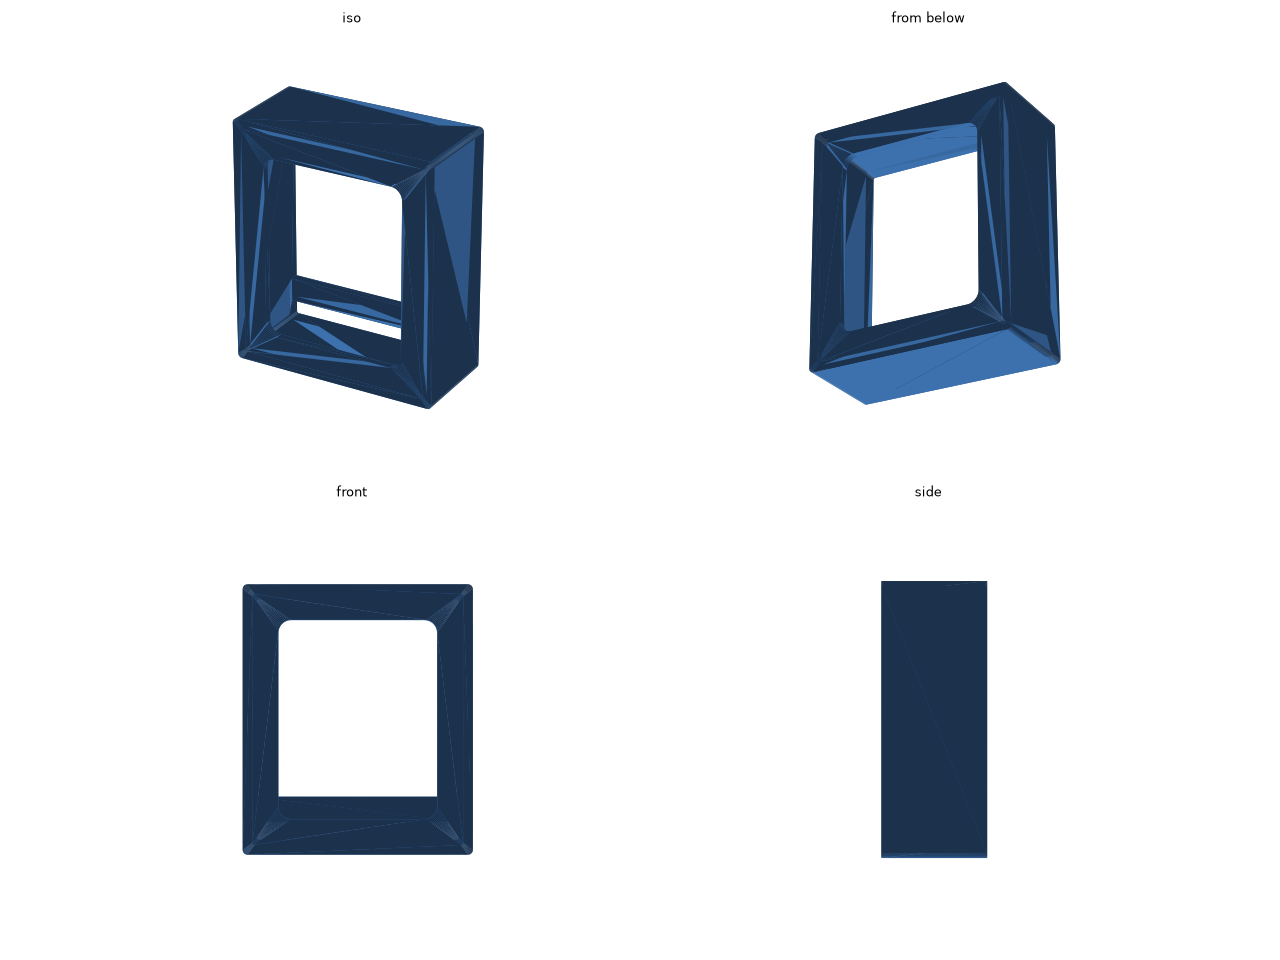
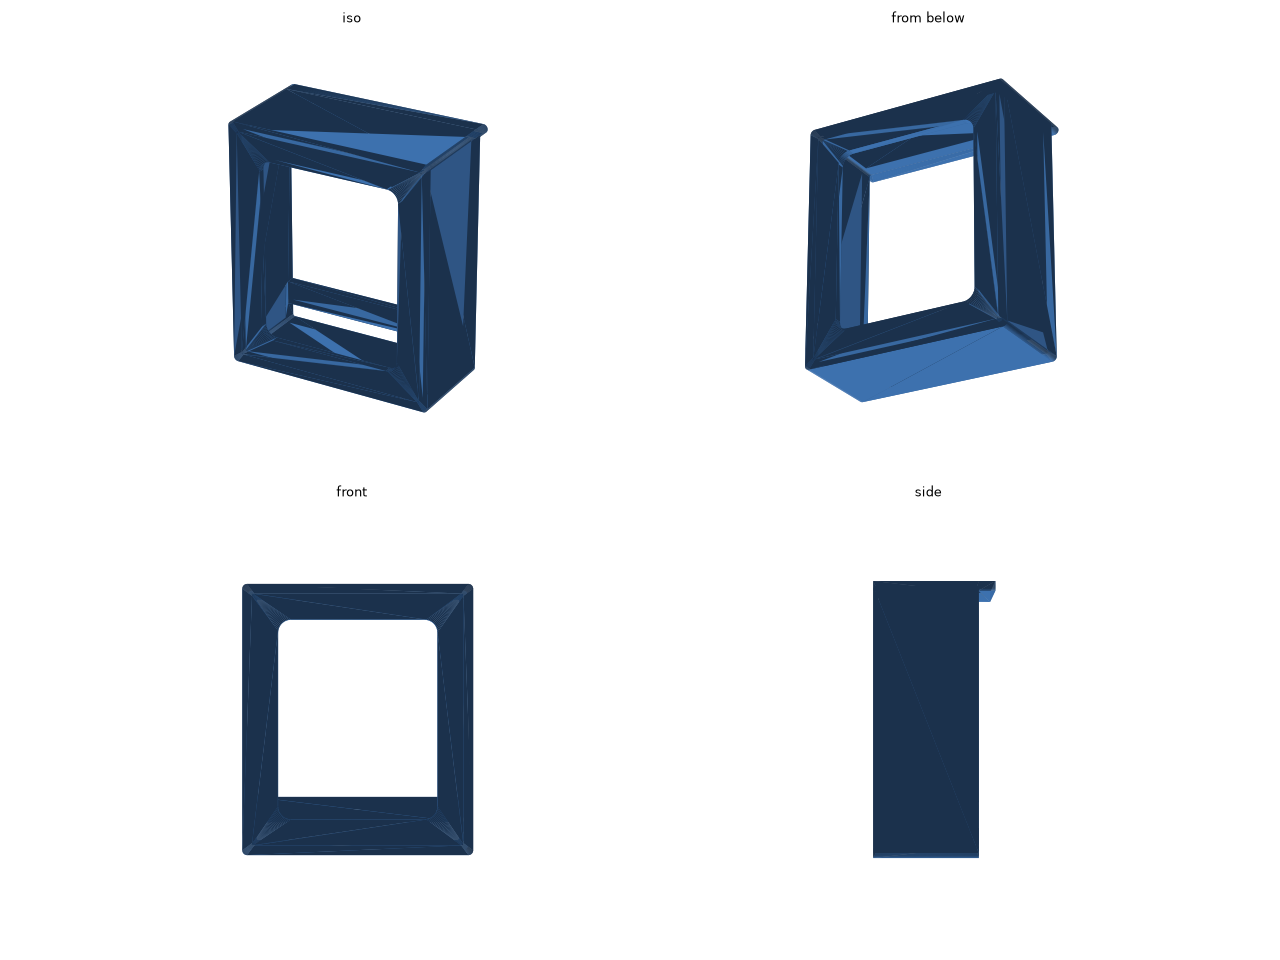
feat: 受け皿の貼る板を充電器の奥行きにそろえる
充電器はエレコム EC-AC12945 (幅 62 × 奥行き 37 × 高さ 48.5 mm) で、
受け皿の貼る板の奥行き (32 mm) が足りなかったので、手前へ伸ばして 37 mm にした。

diff --git a/desk-audio-hanger/hanger.py b/desk-audio-hanger/hanger.py
@@ -3,7 +3,7 @@
 部品は 3 種類あり、--part で選ぶ。どれも両面テープで貼る。
   hanger: 天板の裏に貼る。左がイヤホンのケースを立てて入れるポケット、右がヘッドホンを掛けるフック。
           ケースは充電口を下にして立て、底の真ん中の前後に抜けたすき間にケーブルを前から通す。
-  cradle: 充電器の下の面に貼り、充電器の真下にケースを置く受け皿。
+  cradle: 充電器 (エレコム EC-AC12945) の下の面に貼り、充電器の真下にケースを置く受け皿。
           ケースは充電口を上にして (ふたを下にして) 立て、上のすき間からケーブルを差す。
   hook:   天板の裏に貼る、ヘッドホンを掛けるフックだけ。cradle と組み合わせて使う。
 
@@ -38,6 +38,7 @@ BACK_T = 2.5    # 奥の板の厚さ
 WINDOW = 8.0    # 奥の板の窓のふちの幅
 CABLE_W = 14.0  # hanger: 底の真ん中の、ケーブルのプラグを通すすき間の幅
 PLUG_H = 28.0   # cradle: ケースの上から充電器の下の面までの、プラグを差すすき間
+CHARGER_D = 37.0  # cradle: 充電器 (エレコム EC-AC12945) の奥行き。貼る板をこの奥行きまで手前へ伸ばす
 BAR_Z0 = 6.0    # 手前の棒の下の端 (底の上面から)。hanger ではこの下からケーブルを通す
 BAR_Z1 = 14.0   # 手前の棒の上の端
 BAR_T = 3.0     # 手前の棒の厚さ
@@ -114,6 +115,12 @@ def pocket(with_hook):
     back = rect(-iw - 0.01, iw + 0.01, FLOOR_T - 0.01, z_plate + 0.01) - rounded_rect(
         -iw + WINDOW, iw - WINDOW, FLOOR_T + WINDOW, z_plate - WINDOW, 4.0)
     body = body + extrude_y(back, depth - BACK_T, depth)
+
+    # cradle の貼る板は、充電器の下の面の奥行きにそろうよう手前へ伸ばす
+    # (印刷時は上に積み上がる側なので、張り出しにはならない)
+    ext = CHARGER_D - depth
+    if args.part == "cradle" and ext > 0:
+        body = body + extrude_y(rounded_rect(-ow, ow, z_plate, total_h, R_OUT), -ext, 0.01)
 
     # 手前の棒
     return body + box(-iw - 0.01, iw + 0.01, 0, BAR_T, FLOOR_T + BAR_Z0, FLOOR_T + BAR_Z1)

diff --git a/desk-audio-hanger/README.md b/desk-audio-hanger/README.md
@@ -24,17 +24,18 @@
 
 ## cradle: 充電器の下の受け皿
 
-充電器の下の面に貼り、充電器の真下にイヤホンのケースを置く受け皿です。ケースは充電口を上にして (ふたを下にして) 立て、充電器から伸ばしたケーブルを上から差します。
+充電器 ([エレコム EC-AC12945](https://www.amazon.co.jp/dp/B0H3TNNX57)) の下の面に貼り、充電器の真下にイヤホンのケースを置く受け皿です。ケースは充電口を上にして (ふたを下にして) 立て、充電器から伸ばしたケーブルを上から差します。
 
 ![cradle](images/preview-cradle.png)
 
-- [stl/cradle.stl](stl/cradle.stl) (約 35 cm³)
-- 外形: 71.5 × 32 × 84 mm (幅 × 奥行き × 高さ)。充電器に貼る面は 71.5 × 32 mm です。
+- [stl/cradle.stl](stl/cradle.stl) (約 36 cm³)
+- 外形: 71.5 × 37 × 84 mm (幅 × 奥行き × 高さ)。充電器に貼る面は 71.5 × 37 mm です。
+- 貼る板の奥行きは、充電器の奥行き (37 mm) にそろえてあります。充電器の幅は 62 mm なので、板は左右に 5 mm ほどはみ出します。
 - ケースの上から充電器の下の面までは 28 mm 空けてあり、そこにプラグを差します。
 
 ケースを手前の棒の上を越えるように斜めに入れて底に立ててから、ケーブルを差します。
 
-受け皿とケースの重さ (合わせて 100 g ほど) は、充電器を天板に留めている両面テープにもかかります。充電器がしっかり留まっているかを確かめてから貼ってください。
+受け皿とケースの重さ (合わせて 100 g ほど) は、充電器 (約 145 g) を留めているところにもかかります。充電器がしっかり留まっているかを確かめてから貼ってください。
 
 ## hook: ヘッドホンのフック
 
@@ -59,6 +60,7 @@
 | `CLEAR` | ケースとのすき間 |
 | `CABLE_W` | hanger の底の、ケーブルのプラグを通すすき間の幅 |
 | `PLUG_H` | cradle の、ケースの上から充電器の下の面までのすき間 |
+| `CHARGER_D` | cradle の貼る板の奥行き (充電器の奥行き) |
 | `BAR_Z0` / `BAR_Z1` | 手前の棒の下の端と上の端の高さ (底の上面から) |
 | `ARM` / `LIP_H` | フックの腕の長さと、先の折れ上がりの高さ |
 | `HOOK_H` | hook の、貼る面から腕の下の面までの高さ |
